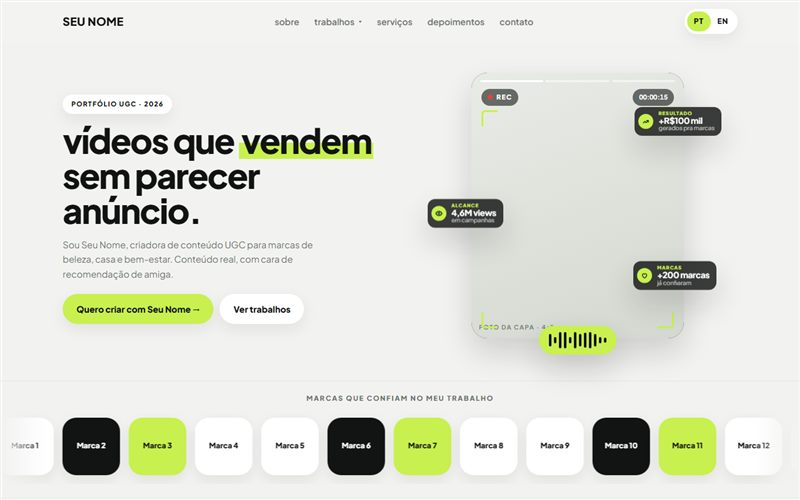
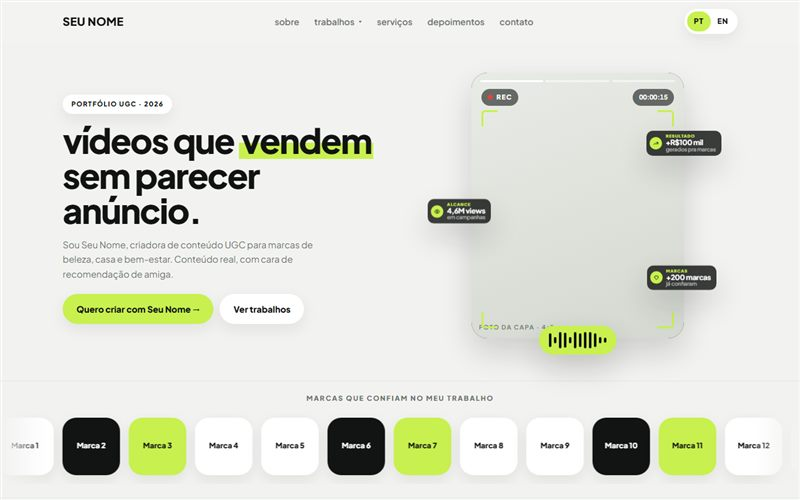
Atualiza index.html

Changed region(s): [[0.7812, 0.21, 0.9062, 0.33], [0.5312, 0.39, 0.6562, 0.48], [0.7812, 0.51, 0.9062, 0.6]]

diff --git a/modelos/estilo-03/index.html b/modelos/estilo-03/index.html
@@ -122,16 +122,16 @@ em{font-style:normal;background:linear-gradient(transparent 56%,var(--lima) 56%,
 @keyframes som{0%,100%{height:8px}50%{height:28px}}
 /* resultados: cartões escuros espalhados em volta da foto */
 .notificacoes{position:absolute;inset:0;z-index:3;margin:0;pointer-events:none}
-.notif{position:absolute;display:flex;align-items:center;gap:8px;padding:6px 11px 6px 6px;border-radius:12px;background:rgba(17,20,18,.82);backdrop-filter:blur(10px);-webkit-backdrop-filter:blur(10px);color:#fff;box-shadow:var(--sombra-alta);animation:boia 6s ease-in-out infinite}
-.notif.n1{top:16%;right:-30px}
+.notif{position:absolute;display:flex;align-items:center;gap:6px;padding:5px 9px 5px 5px;border-radius:10px;background:rgba(17,20,18,.82);backdrop-filter:blur(10px);-webkit-backdrop-filter:blur(10px);color:#fff;box-shadow:var(--sombra-alta);animation:boia 6s ease-in-out infinite}
+.notif.n1{top:24%;right:-30px}
 .notif.n2{top:48%;left:-40px;animation-delay:-2s}
 .notif.n3{bottom:22%;right:-22px;animation-delay:-4s}
-.notif-icone{flex:none;width:24px;height:24px;border-radius:50%;background:var(--lima);display:grid;place-items:center}
-.notif-icone svg{width:12px;height:12px;fill:none;stroke:var(--tinta);stroke-width:2.2;stroke-linecap:round;stroke-linejoin:round}
+.notif-icone{flex:none;width:20px;height:20px;border-radius:50%;background:var(--lima);display:grid;place-items:center}
+.notif-icone svg{width:10px;height:10px;fill:none;stroke:var(--tinta);stroke-width:2.2;stroke-linecap:round;stroke-linejoin:round}
 .notif p{margin:0;display:grid;line-height:1.2}
-.notif small{font-size:7.5px;font-weight:800;letter-spacing:.14em;color:var(--lima)}
-.notif b{font-size:13.5px;font-weight:700;letter-spacing:-.02em}
-.notif p > span{font-size:9.5px;color:rgba(255,255,255,.65)}
+.notif small{font-size:6.5px;font-weight:800;letter-spacing:.14em;color:var(--lima)}
+.notif b{font-size:11.5px;font-weight:700;letter-spacing:-.02em}
+.notif p > span{font-size:8.5px;color:rgba(255,255,255,.65)}
 
 /* ---------- marcas: faixa branca fininha com os nomes passando ---------- */
 .marcas{padding:18px 0 22px;border-top:1px solid var(--linha);border-bottom:1px solid var(--linha)}
@@ -315,15 +315,15 @@ em{font-style:normal;background:linear-gradient(transparent 56%,var(--lima) 56%,
   .capa{padding:24px 0 40px}
   .capa .largura{grid-template-columns:1fr;gap:0}
   .capa .capa-foto{margin:18px auto 0;max-width:340px;padding:18px 26px 30px}
-  .notif{padding:5px 9px 5px 5px;gap:6px;border-radius:10px}
-  .notif.n1{right:-4px}
+  .notif{padding:4px 8px 4px 4px;gap:5px;border-radius:9px}
+  .notif.n1{right:-4px;top:25%}
   .notif.n2{left:-4px}
   .notif.n3{right:-2px}
-  .notif-icone{width:20px;height:20px}
-  .notif-icone svg{width:10px;height:10px}
-  .notif b{font-size:12px}
+  .notif-icone{width:17px;height:17px}
+  .notif-icone svg{width:9px;height:9px}
+  .notif b{font-size:10.5px}
   .nichos-perto{padding-top:16px}
-  .notif p > span{font-size:8.5px}
+  .notif p > span{font-size:7.5px}
   .marca-bola{width:78px;height:78px;border-radius:18px;font-size:11px}
   .capa h1{font-size:38px}
   .capa p.apresenta{font-size:14.5px;margin-top:14px}

diff --git a/cliente/index.html b/cliente/index.html
@@ -545,7 +545,7 @@ const MODELOS = [
   { tipo: "Bio link",  nome: "Elegante", categoria: "Escuro e sofisticado", link: "", imagem: "", estilo: "elegante" },
   { tipo: "Portfólio", nome: "Editorial creme e azul", categoria: "Editorial", link: "../modelos/estilo-01/", imagem: "../fotos/modelos/01.jpg?v=5" },
   { tipo: "Portfólio", nome: "Scrapbook rosa e amarelo", categoria: "Divertido", link: "../modelos/estilo-02/", imagem: "../fotos/modelos/02.jpg?v=4" },
-  { tipo: "Portfólio", nome: "Editor flutuante", categoria: "Moderno", link: "../modelos/estilo-03/", imagem: "../fotos/modelos/03.jpg?v=6" },
+  { tipo: "Portfólio", nome: "Editor flutuante", categoria: "Moderno", link: "../modelos/estilo-03/", imagem: "../fotos/modelos/03.jpg?v=7" },
   { tipo: "Site",      nome: "Clean",    categoria: "Clean e elegante",     link: "", imagem: "", estilo: "clean" },
   { tipo: "Site",      nome: "Colorido", categoria: "Colorido e divertido", link: "", imagem: "", estilo: "colorido" },
   { tipo: "Site",      nome: "Elegante", categoria: "Escuro e sofisticado", link: "", imagem: "", estilo: "elegante" }
